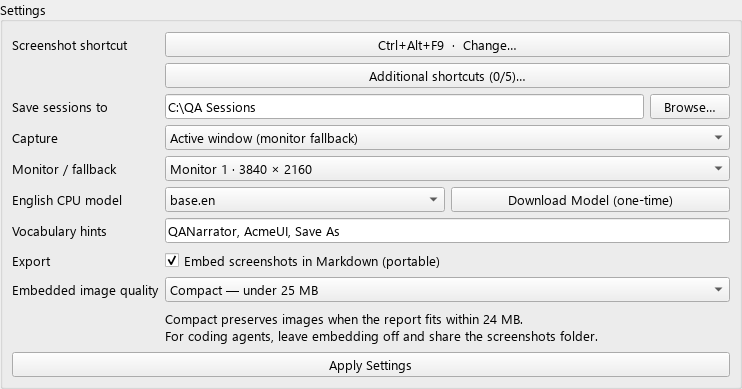
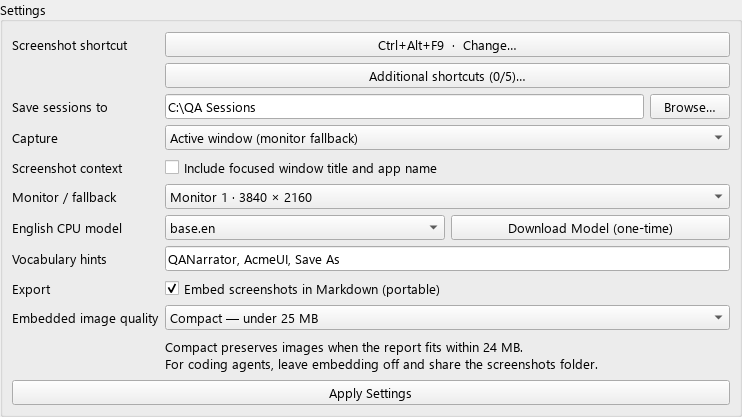
Release Local QA Narrator 0.5.0

diff --git a/src/qa_narrator/__init__.py b/src/qa_narrator/__init__.py
@@ -1,3 +1,3 @@
 """Local QA Narrator. Capture is always explicitly user initiated."""
 
-__version__ = "0.4.0"
+__version__ = "0.5.0"

diff --git a/VALIDATION.md b/VALIDATION.md
@@ -1,5 +1,42 @@
 # Validation record
 
+## v0.5.0 release
+
+On October 15, 2026, the Windows x64 release was built from main after PR #14 at
+`dist/v0.5.0/QANarrator/QANarrator.exe`. All **176 tests**, Ruff for source/tests
+and release/window-context scripts, the offline lockfile check, and
+`git diff --check` passed. Source and installed metadata both report **0.5.0**;
+only the project version changed in the lockfile, with dependency pins unchanged.
+
+Native title/process lookup passed using a test widget, without recording audio
+or capturing other applications. Packaged linked and embedded exports retained
+the executable basename, escaped title text, and focused-window label. Tests
+cover opt-in defaults, immediate preference persistence, unavailable fields,
+process-handle cleanup, monitor/fallback labels, and screenshot sidecar recovery.
+
+Real offline CPU transcription with saved local `base.en` files and vocabulary
+hints passed. The source smoke test blocked network access with a socket guard;
+the packaged smoke used offline mode and also passed exact embedded-PNG roundtrips
+and normal native GUI launch/close. The existing model files were reused from
+the ignored validation directory; models are not bundled in the release.
+
+Packaged raw/compact/linked export and standalone-shrink checks passed. An
+in-budget 3840 × 2160 PNG retained its exact bytes. A 33,228,470-byte synthetic
+report compressed to 7,411,154 bytes. Source files and manual notes were preserved.
+Results are in ignored `.validation/release-v0.5.0/exports/result.json`,
+`.validation/release-v0.5.0/context/result.json`, and
+`.validation/packaged-result.json`.
+
+The README previews were refreshed from actual widgets using an explicit isolated
+INI file, example values, and no native shortcut registrations, then visually
+inspected. The release ZIP includes the updated documentation and screenshots,
+source license, and bundled dependency licenses. Packaging checks the embedded
+version, complete archive file list, and CRCs, and writes `SHA256SUMS.txt`.
+
+The executable remains unsigned. Physical microphone/keyboard acceptance,
+overflow/disconnect scenarios, and clean-machine deployment remain manual checks.
+Larger models were not added or benchmarked in this release.
+
 ## v0.4.0 release
 
 On October 15, 2026, the Windows x64 release was built at

diff --git a/README.md b/README.md
@@ -8,12 +8,12 @@ voice and transcribes it on your Windows PC, ready for you to share with a teamm
 or coding agent.
 
 **[Download for Windows →](https://github.com/ariesyous/qa-tool/releases/latest)**
-Choose **QANarrator-v0.4.0-windows-x64.zip**, then follow the [quick start](#download-and-launch).
+Choose **QANarrator-v0.5.0-windows-x64.zip**, then follow the [quick start](#download-and-launch).
 Requires Windows 10/11 x64.
 
-Version **0.4.0** adds vocabulary hints, preserves images in reports that already
-fit the compact target, and improves microphone, shortcut, and session recovery
-reliability. See the [release notes](CHANGELOG.md).
+Version **0.5.0** adds optional screenshot labels with the focused window title
+and app name. Enable them in Settings when useful; they are off by default because
+titles can contain private information. See the [release notes](CHANGELOG.md).
 
 [Quick start](#download-and-launch) · [First walkthrough](#your-first-walkthrough) · [Screenshot shortcuts](#screenshot-shortcuts) · [Portable Markdown](#portable-markdown-with-embedded-screenshots) · [Troubleshooting](#troubleshooting) · [Developer setup](#setup-from-source)
 
@@ -32,7 +32,7 @@ model download needs internet access; transcription runs locally afterward.
 
 ## Download and launch
 
-1. Download **QANarrator-v0.4.0-windows-x64.zip** from the
+1. Download **QANarrator-v0.5.0-windows-x64.zip** from the
    [latest release](https://github.com/ariesyous/qa-tool/releases/latest).
 2. Extract the ZIP, then double-click **`QANarrator\QANarrator.exe`**.
    Keep the entire extracted `QANarrator` folder together, including `_internal`.

diff --git a/CHANGELOG.md b/CHANGELOG.md
@@ -1,10 +1,18 @@
 # Release notes
 
-## Unreleased
+## 0.5.0 — October 15, 2026
 
 - Optional screenshot context records the focused window title and executable name,
   off by default. Markdown escapes the labels and identifies the focused window
   for monitor captures. Unavailable metadata does not prevent screenshots. (#5)
+- The preference saves immediately and applies to new screenshots. Disabling it
+  does not remove context from existing sessions or exports. Only the executable
+  basename is stored, never its full path. Context survives sidecar recovery.
+- Updated README screenshots show the new setting. Existing settings, sessions,
+  and downloaded models can be reused; models are still downloaded separately.
+
+Vocabulary hints shipped in 0.4.0. Larger models remain deferred under #6 pending
+Windows CPU performance and compatibility validation; contributions are welcome.
 
 ## 0.4.0 — October 15, 2026
 
